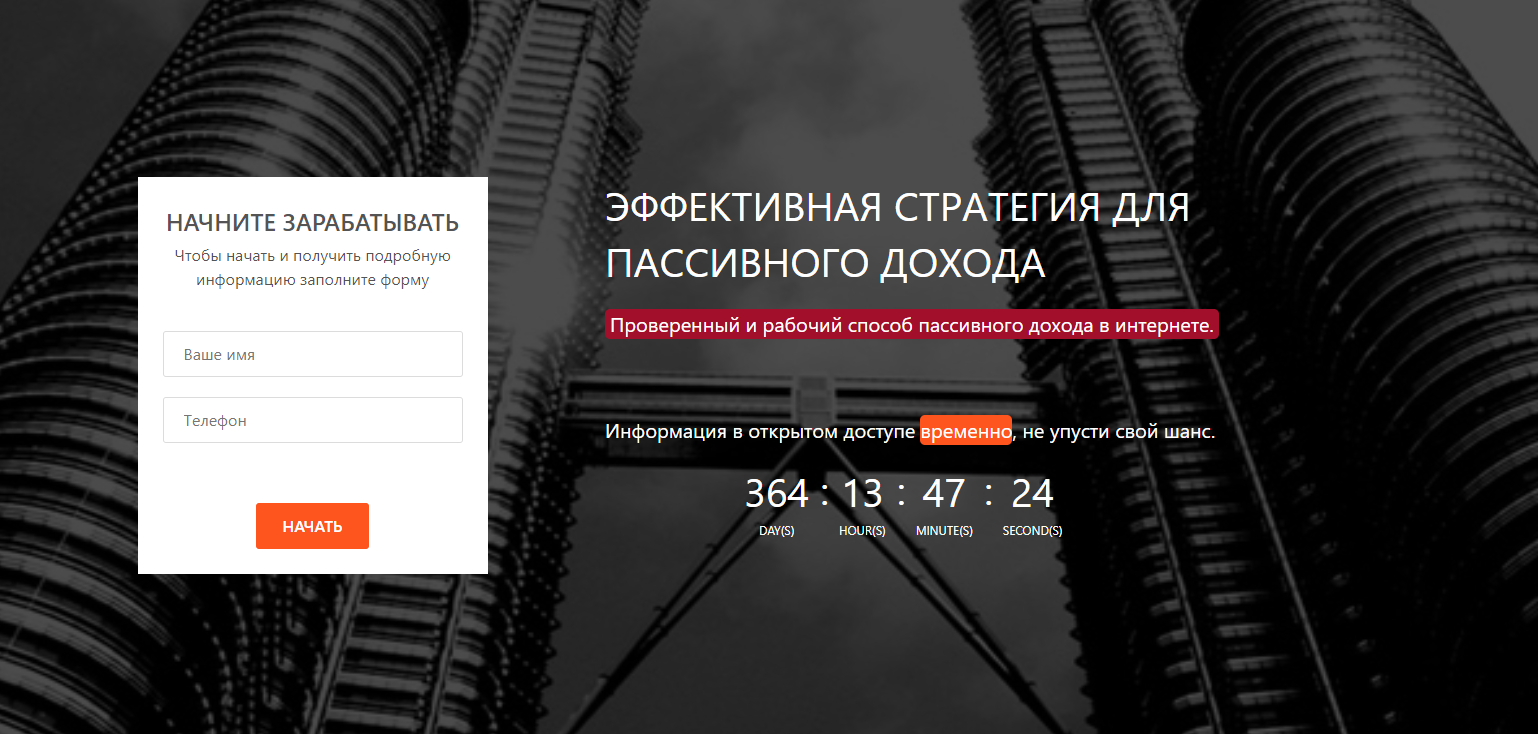
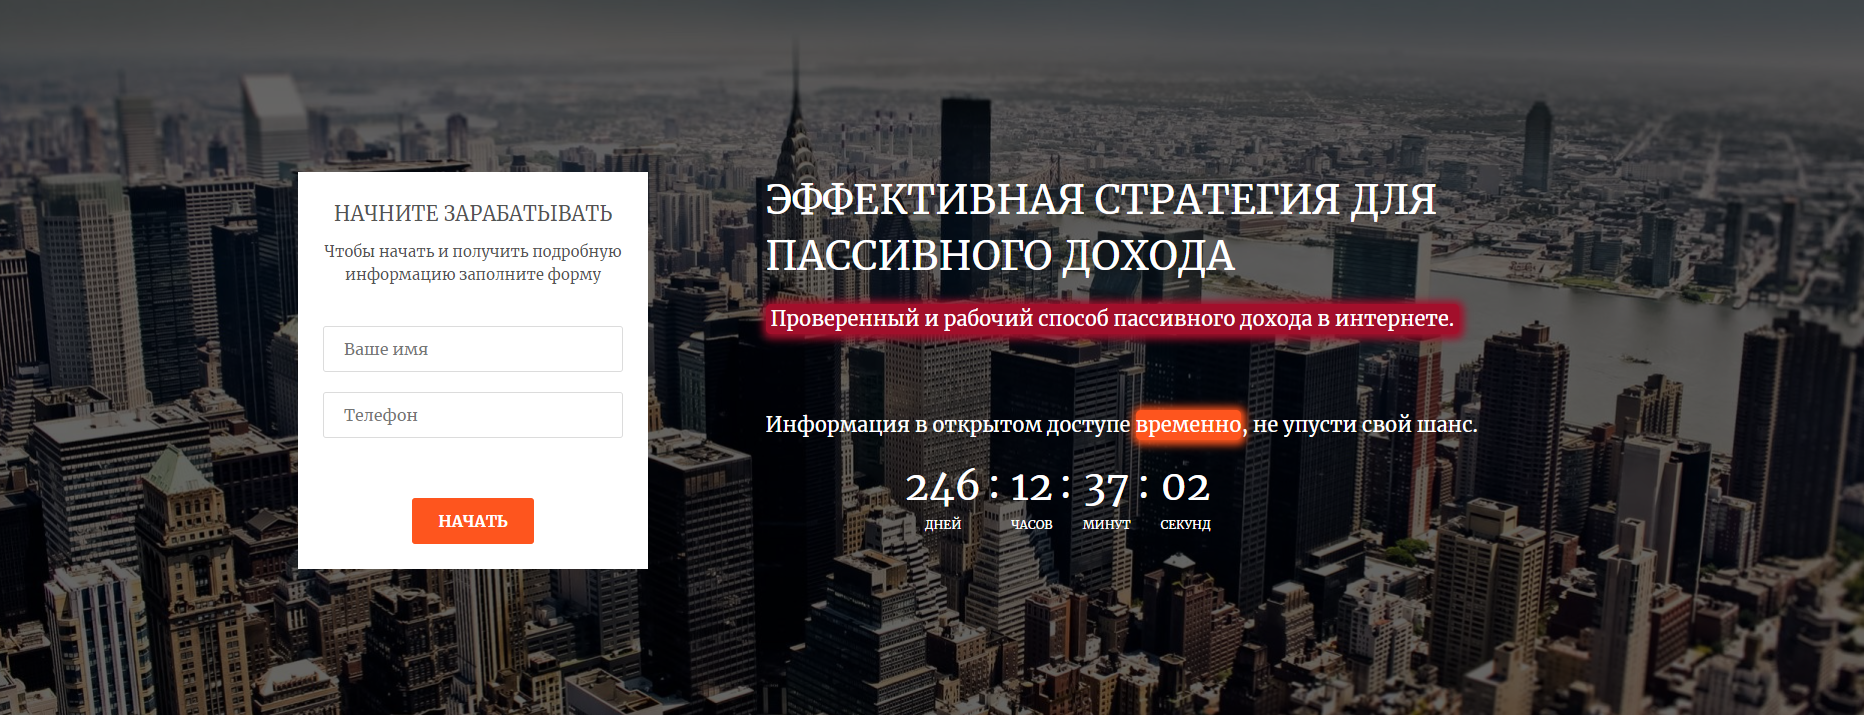
bg-header and ''

diff --git a/scss/style.scss b/scss/style.scss
@@ -290,24 +290,24 @@ $sm: 576px;
         }
     }
     .header {
-        position: relative;
-        img {
-            position: absolute;
-            width: 110%;
-            height: 170%;
-            bottom: -15%;
-            filter: grayscale(1);
-            z-index: 0;
-            @media (max-width: $lg) {
-                height: 150%;
-                width: 150%;
-                left: -20%;
-            }
-        }
         &-bg {
             position: relative;
-            background-color: rgba(0, 0, 0, 0.7);
+            background: url(../img/building.jpg) center no-repeat;
+            background-size: cover;
+            width: 101%;
+            z-index: 0;
+            &::after {
+                position: absolute;
+                content: '';
+                top: 0;
+                width: 100%;
+                height: 100%;
+                background: rgba(0, 0, 0, 0.6);
+                z-index: 1;
+            }
             .container {
+                position: relative;
+                z-index: 2;
                 padding-top: 185px;
                 padding-bottom: 165px;
                 @media (max-width: $lg) {
@@ -362,6 +362,7 @@ $sm: 576px;
                         .p-red {
                             display: inline-block;
                             background-color: #a20f2b;
+                            box-shadow: 1px 1px 8px 4px #a20f2b;
                             border-radius: 5px;
                             padding: 0 5px;
                             margin-bottom: 60px;
@@ -371,6 +372,7 @@ $sm: 576px;
                         }
                         .p-orange {
                             background-color: #fe551e;
+                            box-shadow: 1px 1px 8px 4px #fe551e;
                             border-radius: 5px;
                             margin-left: 5px;
                             display: inline-block;
@@ -594,19 +596,19 @@ $sm: 576px;
                     position: absolute;
                     content: '`';
                     top: 48px;
-                    left: -7px;
+                    left: -12px;
                     color: #f0ecec;
                     z-index: -1;
-                    transform: rotateY(180deg) scale3d(10, 10, 10);
+                    transform: rotateY(180deg) scale3d(7, 10, 10);
                 }
                 &::after {
                     position: absolute;
                     content: '`';
                     top: 48px;
-                    left: 12px;
+                    left: 7px;
                     color: #f0ecec;
                     z-index: -1;
-                    transform: rotateY(180deg) scale3d(10, 10, 10);
+                    transform: rotateY(180deg) scale3d(7, 10, 10);
                 }
             }
             h6 {
@@ -687,6 +689,7 @@ $sm: 576px;
             }
         }
     }
+
     
     /* плавное изменение прозрачности  placeholder-а при фокусе */
     input::-webkit-input-placeholder {

diff --git a/css/style.css b/css/style.css
@@ -305,30 +305,25 @@ h1, h2, h3, h4, h5, h6 {
   background-color: #ce3502;
   color: #fff;
 }
-.wrapper .header {
-  position: relative;
-}
-.wrapper .header img {
-  position: absolute;
-  width: 110%;
-  height: 170%;
-  bottom: -15%;
-  -webkit-filter: grayscale(1);
-          filter: grayscale(1);
-  z-index: 0;
-}
-@media (max-width: 992px) {
-  .wrapper .header img {
-    height: 150%;
-    width: 150%;
-    left: -20%;
-  }
-}
 .wrapper .header-bg {
   position: relative;
-  background-color: rgba(0, 0, 0, 0.7);
+  background: url(../img/building.jpg) center no-repeat;
+  background-size: cover;
+  width: 101%;
+  z-index: 0;
+}
+.wrapper .header-bg::after {
+  position: absolute;
+  content: "";
+  top: 0;
+  width: 100%;
+  height: 100%;
+  background: rgba(0, 0, 0, 0.6);
+  z-index: 1;
 }
 .wrapper .header-bg .container {
+  position: relative;
+  z-index: 2;
   padding-top: 185px;
   padding-bottom: 165px;
 }
@@ -396,6 +391,8 @@ h1, h2, h3, h4, h5, h6 {
 .wrapper .header-bg .container .header-title p .p-red {
   display: inline-block;
   background-color: #a20f2b;
+  -webkit-box-shadow: 1px 1px 8px 4px #a20f2b;
+          box-shadow: 1px 1px 8px 4px #a20f2b;
   border-radius: 5px;
   padding: 0 5px;
   margin-bottom: 60px;
@@ -407,6 +404,8 @@ h1, h2, h3, h4, h5, h6 {
 }
 .wrapper .header-bg .container .header-title p .p-orange {
   background-color: #fe551e;
+  -webkit-box-shadow: 1px 1px 8px 4px #fe551e;
+          box-shadow: 1px 1px 8px 4px #fe551e;
   border-radius: 5px;
   margin-left: 5px;
   display: inline-block;
@@ -683,21 +682,21 @@ h1, h2, h3, h4, h5, h6 {
   position: absolute;
   content: "`";
   top: 48px;
-  left: -7px;
+  left: -12px;
   color: #f0ecec;
   z-index: -1;
-  -webkit-transform: rotateY(180deg) scale3d(10, 10, 10);
-          transform: rotateY(180deg) scale3d(10, 10, 10);
+  -webkit-transform: rotateY(180deg) scale3d(7, 10, 10);
+          transform: rotateY(180deg) scale3d(7, 10, 10);
 }
 .wrapper .reviews-column_before::after {
   position: absolute;
   content: "`";
   top: 48px;
-  left: 12px;
+  left: 7px;
   color: #f0ecec;
   z-index: -1;
-  -webkit-transform: rotateY(180deg) scale3d(10, 10, 10);
-          transform: rotateY(180deg) scale3d(10, 10, 10);
+  -webkit-transform: rotateY(180deg) scale3d(7, 10, 10);
+          transform: rotateY(180deg) scale3d(7, 10, 10);
 }
 .wrapper .reviews-column h6 {
   font-weight: 700;

diff --git a/js/script.js b/js/script.js
@@ -22,16 +22,16 @@ let timer = setInterval(function () {
         let secs = Math.floor((t % (1000 * 60)) / 1000);
 
         document.getElementById("timer-days").innerHTML = ("0" + days).slice(-3) +
-            "<span class='label'>DAY(S)</span>";
+            "<span class='label'>ДНЕЙ</span>";
 
         document.getElementById("timer-hours").innerHTML = ("0" + hours).slice(-2) +
-            "<span class='label'>HOUR(S)</span>";
+            "<span class='label'>ЧАСОВ</span>";
 
         document.getElementById("timer-mins").innerHTML = ("0" + mins).slice(-2) +
-            "<span class='label'>MINUTE(S)</span>";
+            "<span class='label'>МИНУТ</span>";
 
         document.getElementById("timer-secs").innerHTML = ("0" + secs).slice(-2) +
-            "<span class='label'>SECOND(S)</span>";
+            "<span class='label'>СЕКУНД</span>";
 
     } else {
         document.getElementById("timer").innerHTML = "Обратный отсчет окончен!";

diff --git a/index.html b/index.html
@@ -32,7 +32,6 @@
     <div id="myDiv" class="wrapper animate-bottom">
         <header class="header">
             <meta property="og:image" content="img/income.png">
-            <img src="img/building.jpg" alt="building">
             <div class="header-bg">
                 <div class="container">
                     <div class="row">
